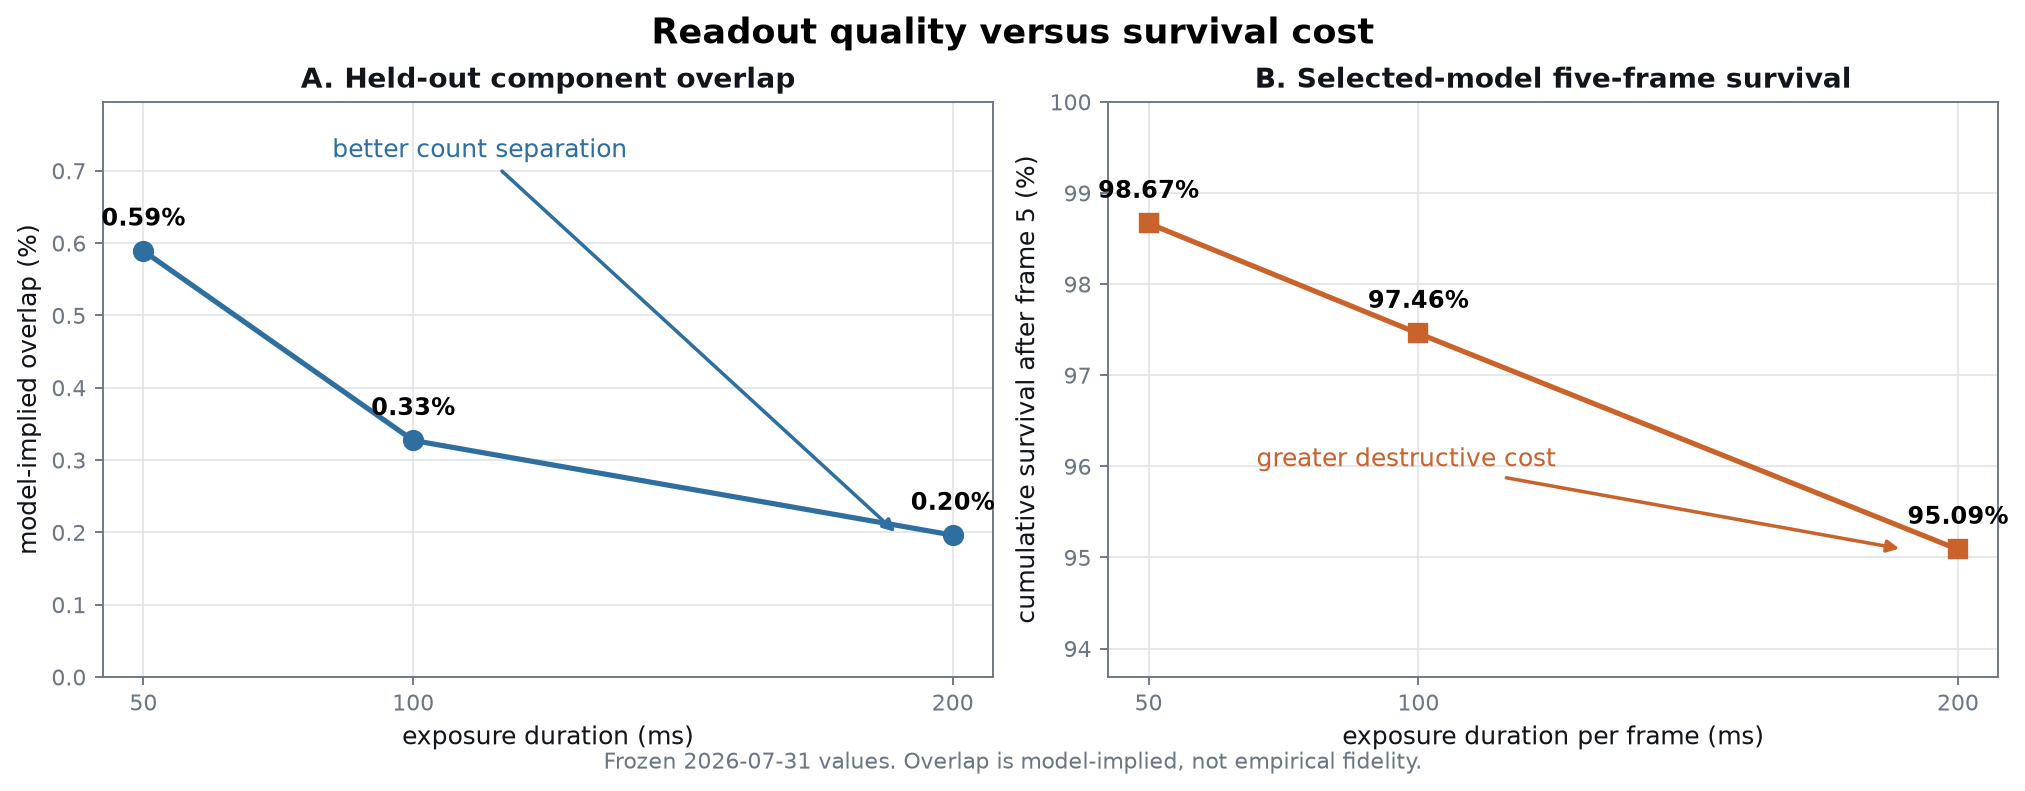
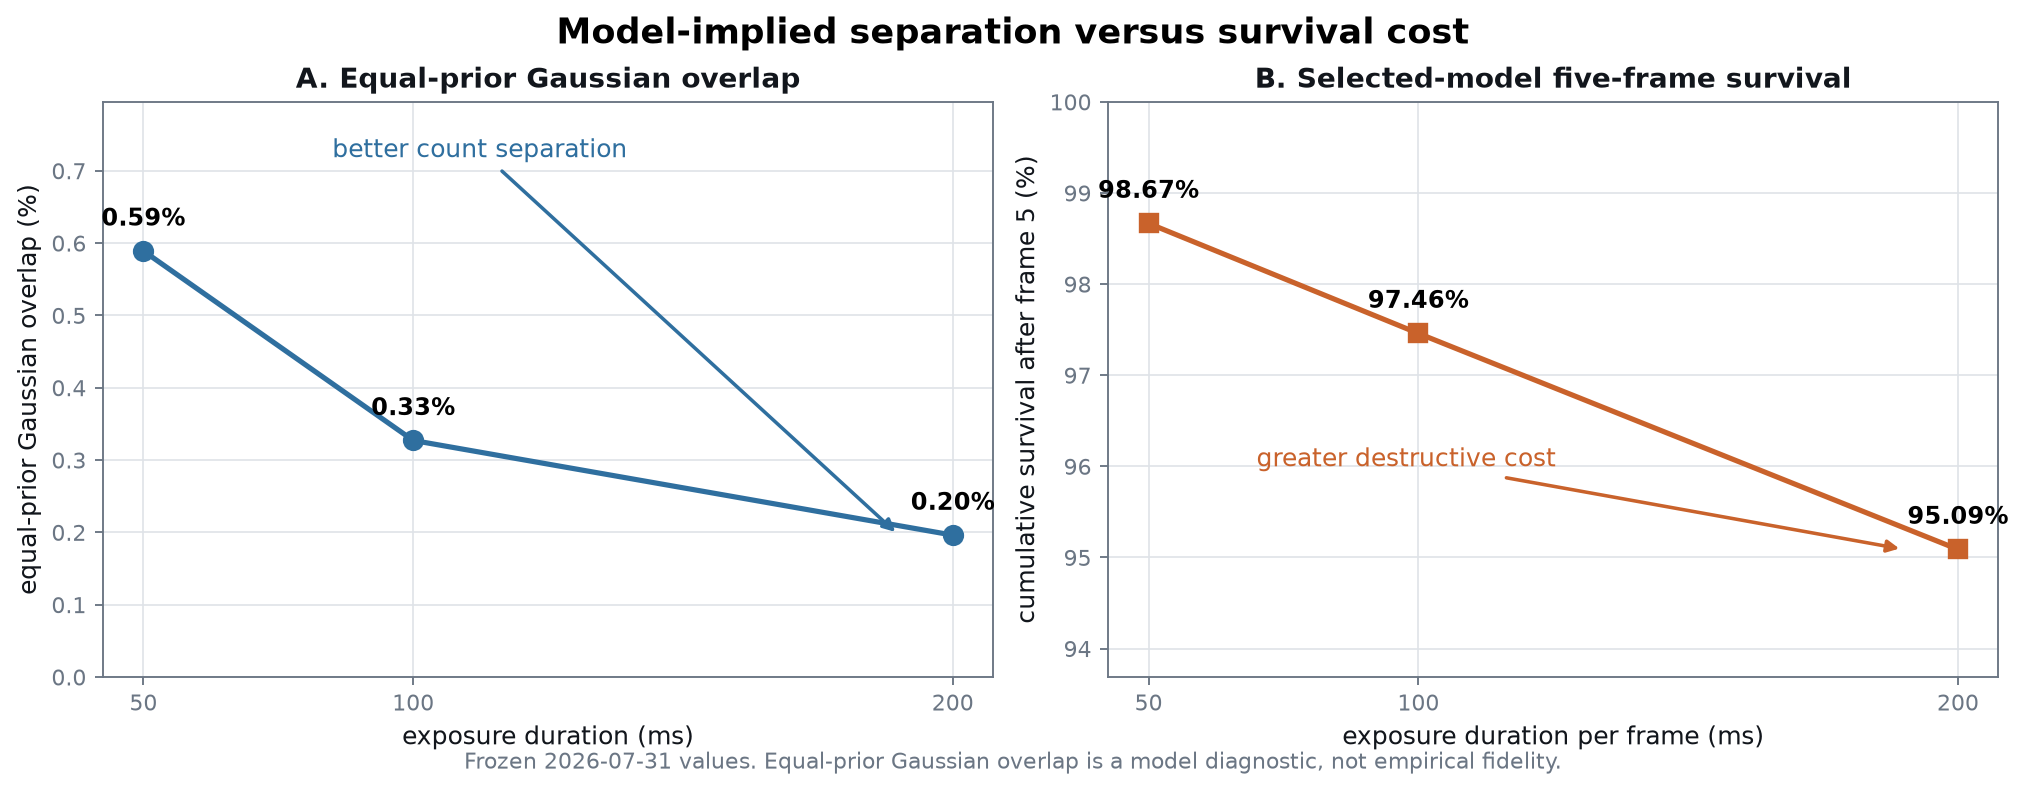
Clarify model-implied separation wording

diff --git a/tests/test_readme_narrative.py b/tests/test_readme_narrative.py
@@ -30,7 +30,7 @@ def test_readme_has_requested_compact_section_order():
         "## From images to apparent occupancy",
         "## What was measured",
         "## Main results",
-        "## Readout quality versus survival cost",
+        "## Model-implied separation versus survival cost",
         "## Repeated imaging and pulse segmentation",
         "## Statistical contribution",
         "## Reproduce",
@@ -69,12 +69,12 @@ def test_readme_displays_exactly_four_nonduplicated_primary_assets():
 def test_main_table_has_only_requested_results():
     text = README.read_text(encoding="utf-8")
     section = text.split("## Main results", 1)[1].split(
-        "## Readout quality versus survival cost", 1
+        "## Model-implied separation versus survival cost", 1
     )[0]
     for phrase in (
         "dark operational lifetime",
         "bright operational lifetime",
-        "model-implied overlap",
+        "equal-prior Gaussian overlap (model diagnostic)",
         "selected-model predicted five-frame survival",
         "pulse segmentation",
     ):
@@ -138,8 +138,43 @@ def test_readme_links_all_detailed_claim_documents():
 def test_old_benchmark_values_are_not_mixed_into_headline():
     text = README.read_text(encoding="utf-8")
     main = text.split("## Main results", 1)[1].split(
-        "## Readout quality versus survival cost", 1
+        "## Model-implied separation versus survival cost", 1
     )[0]
     assert "22.29 s" not in main
     assert "1.64 s" not in main
     assert "10.26 percentage points" not in main
+
+
+def test_navigation_anchors_and_refined_calibration_wording_are_exact():
+    text = README.read_text(encoding="utf-8")
+    headings = [
+        line.removeprefix("## ")
+        for line in text.splitlines()
+        if line.startswith("## ")
+    ]
+    heading_anchors = {
+        re.sub(r"[^a-z0-9 -]", "", heading.lower()).replace(" ", "-")
+        for heading in headings
+    }
+    navigation = text.split("## From images to apparent occupancy", 1)[0]
+    navigation_anchors = set(re.findall(r"\]\(#([^)]+)\)", navigation))
+    assert navigation_anchors <= heading_anchors
+    assert "model-implied-separation-versus-survival-cost" in navigation_anchors
+
+    overlap_label = "equal-prior Gaussian overlap (model diagnostic)"
+    section_title = "## Model-implied separation versus survival cost"
+    calibration_note = (
+        "The frozen training-fit model is evaluated on held-out shots; small "
+        "localized calibration residuals remain near the component modes, "
+        "without changing the reported lifetime or pulse-segmentation conclusions."
+    )
+    assert text.count(overlap_label) == 1
+    assert text.count(section_title) == 1
+    assert text.count(calibration_note) == 1
+    for forbidden in (
+        "measured classification error",
+        "verified readout accuracy",
+        "empirical FPR",
+        "empirical FNR",
+    ):
+        assert forbidden not in text

diff --git a/scripts/generate_optimized_assets.py b/scripts/generate_optimized_assets.py
@@ -62,6 +62,10 @@ CORRECTED_HIST_EDGE = "#1f4d70"
 TOTAL_MODEL_COLOR = "#111827"
 EMISSION_X_LABEL = "emission-adjusted count"
 EMISSION_CAPTION = "Background-corrected counts after frozen frame and site offsets."
+EMISSION_CALIBRATION_NOTE = (
+    "Frozen training-fit model evaluated on held-out shots; "
+    "small calibration residuals remain."
+)
 OVERLAP_LABEL = "equal-prior Gaussian overlap"
 
 
@@ -435,7 +439,11 @@ def _render_story_scene(
                 bbox=dict(boxstyle="round,pad=0.3", fc="white", ec=GRID))
         _story_caption(
             fig,
-            f"{EMISSION_CAPTION} Display clipped to held-out 0.25th–99.75th percentiles.",
+            (
+                f"{EMISSION_CAPTION} Display clipped to held-out "
+                "0.25th–99.75th percentiles.\n"
+                f"{EMISSION_CALIBRATION_NOTE}"
+            ),
         )
     elif index == 6:
         ax = fig.add_axes([0.12, 0.22, 0.76, 0.56]); frames = np.arange(1, 6)
@@ -764,9 +772,9 @@ def _draw_readout_tradeoff(result: Mapping[str, Any], path: Path) -> None:
     ])
     fig, axes = plt.subplots(1, 2, figsize=(11.8, 4.4), constrained_layout=True)
     axes[0].plot(exposures, overlaps, color=ACCENT, marker="o", ms=8, lw=2.2)
-    axes[0].set_title("A. Held-out component overlap")
+    axes[0].set_title("A. Equal-prior Gaussian overlap")
     axes[0].set_xlabel("exposure duration (ms)")
-    axes[0].set_ylabel("model-implied overlap (%)")
+    axes[0].set_ylabel("equal-prior Gaussian overlap (%)")
     axes[0].set_xticks(exposures)
     axes[0].set_ylim(0, max(overlaps) * 1.35)
     for x, value in zip(exposures, overlaps):
@@ -788,11 +796,18 @@ def _draw_readout_tradeoff(result: Mapping[str, Any], path: Path) -> None:
     axes[1].annotate("greater destructive cost", xy=(190, survivals[-1]),
                      xytext=(70, 96.0), color=ACCENT_2,
                      arrowprops=dict(arrowstyle="-|>", color=ACCENT_2, lw=1.5))
-    fig.suptitle("Readout quality versus survival cost", fontsize=15, fontweight="bold")
+    fig.suptitle(
+        "Model-implied separation versus survival cost",
+        fontsize=15,
+        fontweight="bold",
+    )
     fig.text(
         0.5,
         -0.015,
-        "Frozen 2026-07-31 values. Overlap is model-implied, not empirical fidelity.",
+        (
+            "Frozen 2026-07-31 values. Equal-prior Gaussian overlap is a "
+            "model diagnostic, not empirical fidelity."
+        ),
         ha="center",
         color=MUTED,
         fontsize=9.5,

diff --git a/tests/test_optimized_assets.py b/tests/test_optimized_assets.py
@@ -133,6 +133,10 @@ def test_emission_plot_labels_and_total_density_are_explicit():
     assert assets.EMISSION_CAPTION == (
         "Background-corrected counts after frozen frame and site offsets."
     )
+    assert assets.EMISSION_CALIBRATION_NOTE == (
+        "Frozen training-fit model evaluated on held-out shots; "
+        "small calibration residuals remain."
+    )
     assert assets.OVERLAP_LABEL == "equal-prior Gaussian overlap"
     distribution = _result()["repeated_imaging"]["emission_models_by_exposure"][
         "100ms"

diff --git a/README.md b/README.md
@@ -6,7 +6,7 @@ operational lifetimes, and repeated-imaging loss attribution.
 [**Inference**](#from-images-to-apparent-occupancy) ·
 [**Measurements**](#what-was-measured) ·
 [**Results**](#main-results) ·
-[**Trade-off**](#readout-quality-versus-survival-cost) ·
+[**Trade-off**](#model-implied-separation-versus-survival-cost) ·
 [**Repeated imaging**](#repeated-imaging-and-pulse-segmentation) ·
 [**Statistics**](#statistical-contribution) ·
 [**Reproduce**](#reproduce) ·
@@ -32,6 +32,8 @@ The walkthrough uses the optimized 100 ms repeated-imaging test split. Its
 representative shot and site are selected by deterministic median rules, not
 visual quality. Geometry, background, and emission outputs are frozen before
 the visual is generated.
+
+The frozen training-fit model is evaluated on held-out shots; small localized calibration residuals remain near the component modes, without changing the reported lifetime or pulse-segmentation conclusions.
 
 The empty and occupied classes are not externally labelled. The output is
 therefore **apparent occupancy** under a **held-out emission model**.
@@ -77,7 +79,7 @@ parentheses are 95% complete-shot intervals.
 |---|---|
 | dark operational lifetime | **35.73 s** (32.09–40.26 s) |
 | bright operational lifetime | **20.30 s** (17.94–23.56 s) |
-| model-implied overlap | **0.59% / 0.33% / 0.20%** at 50 / 100 / 200 ms |
+| equal-prior Gaussian overlap (model diagnostic) | **0.59% / 0.33% / 0.20%** at 50 / 100 / 200 ms |
 | selected-model predicted five-frame survival | **98.67% / 97.46% / 95.09%** at 50 / 100 / 200 ms |
 | pulse segmentation | no material additional pulse term selected |
 
@@ -87,19 +89,20 @@ These are operational results for the recorded sequences, not intrinsic or
 best-achievable apparatus limits. The post-wait control is flat: no trend with
 the preceding illuminated wait is resolved.
 
-## Readout quality versus survival cost
+## Model-implied separation versus survival cost
 
 Longer exposure separates the fitted count components more clearly, but it
 also leaves less selected-model survival after five frames. The figure places
 both effects on the same exposure axis without converting count overlap into a
 labelled error rate.
 
-![Two-panel trade-off: exposure duration versus held-out model-implied overlap and selected-model five-frame cumulative survival](assets/readme/optimized_readout_tradeoff.png)
+![Two-panel trade-off: exposure duration versus equal-prior Gaussian overlap diagnostic and selected-model five-frame cumulative survival](assets/readme/optimized_readout_tradeoff.png)
 
-At 50, 100, and 200 ms, overlap decreases from 0.59% to 0.20% while predicted
-five-frame survival decreases from 98.67% to 95.09%. This is the central
-measurement-design trade-off: more photons improve model-implied separation,
-while longer illumination increases destructive cost.
+At 50, 100, and 200 ms, the equal-prior Gaussian overlap diagnostic decreases
+from 0.59% to 0.20% while predicted five-frame survival decreases from 98.67%
+to 95.09%. This is the central measurement-design trade-off: more photons
+improve model-implied separation, while longer illumination increases
+destructive cost.
 
 ## Repeated imaging and pulse segmentation
 
